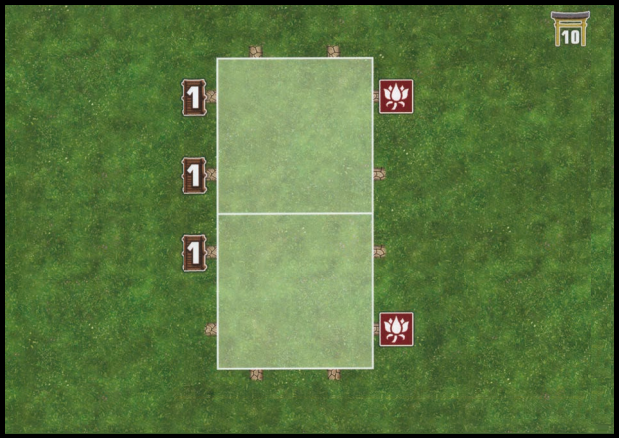
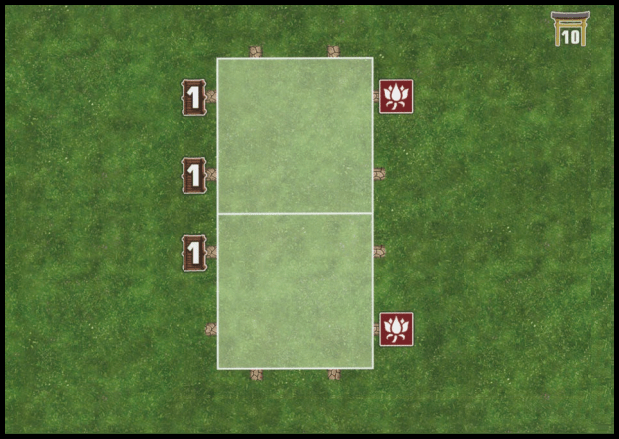
Compresión de imágenes
Se comprimieron las imágenes de los niveles para reducir el delay de
aparición de la imágen del mapa al cambiar el mismo

diff --git a/js/script.js b/js/script.js
@@ -799,10 +799,10 @@ let nroMensajeAleatorio = () => {
 
 const mensajeAleatorio = async () => {
     try{
-        fetch('/json/mensajes.json') //llama asincronamente a mensajes.json
+        fetch('json/mensajes.json') //llama asincronamente a mensajes.json
             .then(response => response.json())
             .then(mensajeAleatorio => {
-                    mensajeX = `${mensajeAleatorio[nroMensajeAleatorio()]}` //pushea los elementos en usuarios
+                    mensajeX = `${mensajeAleatorio[nroMensajeAleatorio()]}`
             })
     }
     catch{
